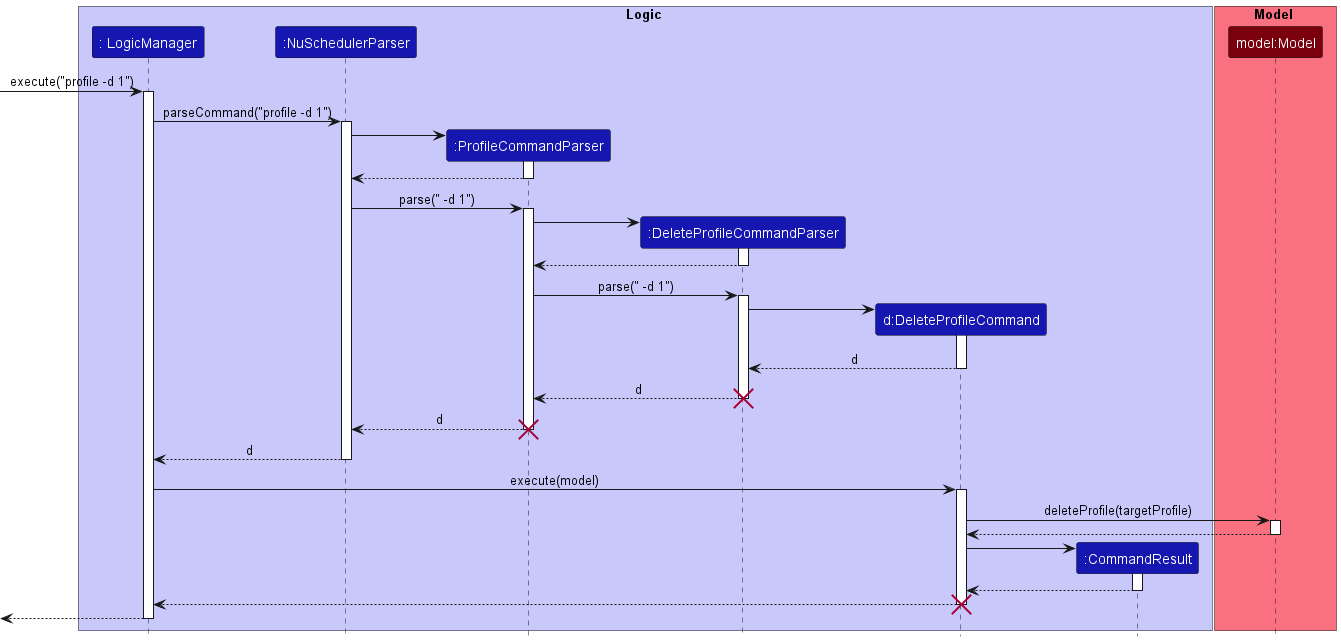
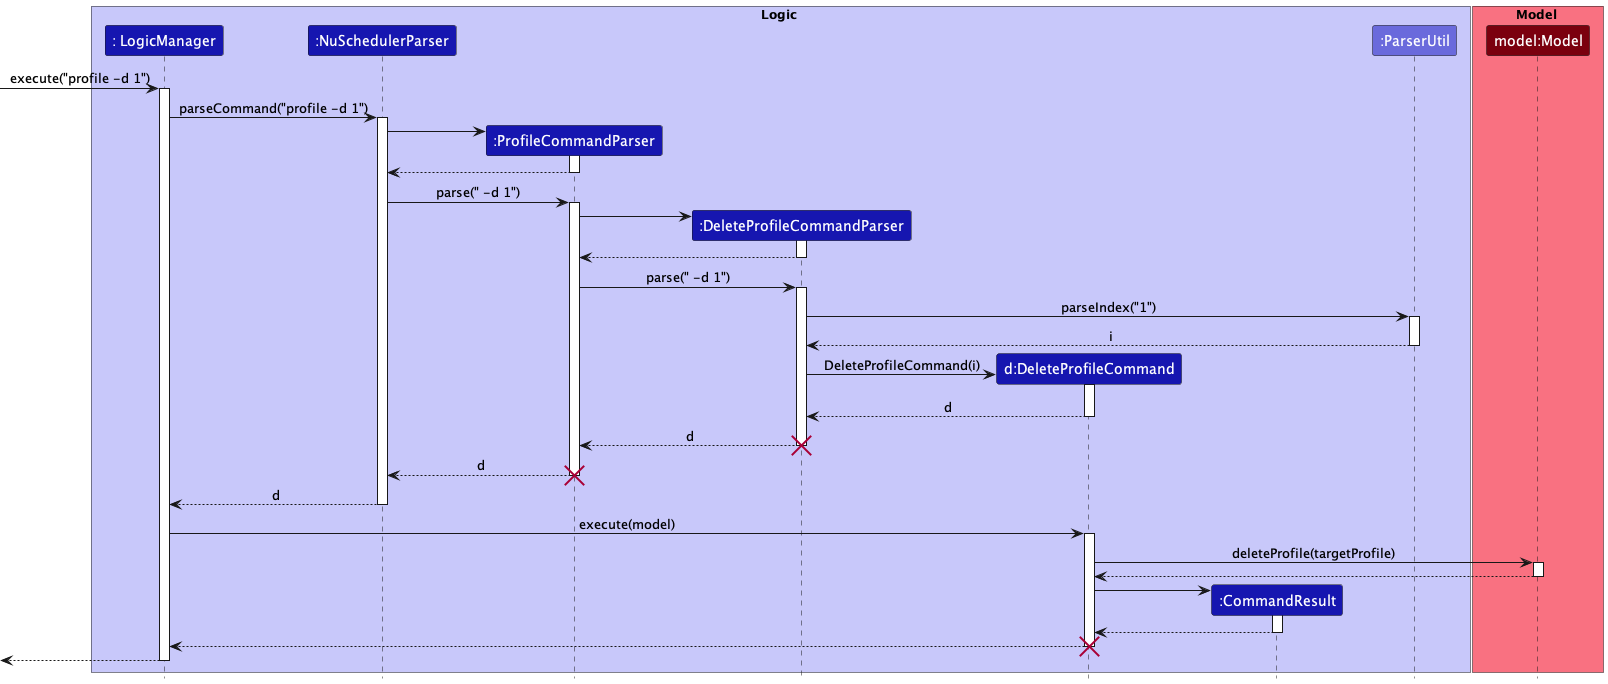
Edit delete implementation details

diff --git a/docs/DeveloperGuide.md b/docs/DeveloperGuide.md
@@ -222,9 +222,11 @@ The `DeleteProfileCommand` extends the `ProfileCommand` abstract class. `Profile
 1. When the user inputs a command to delete a profile, the input is passed to `LogicManager` to be executed.
 2. `LogicManager` will call `NuSchedulerParser#parseCommand()`, which will create a new `ProfileCommandParser`.
 3. The method `ProfileCommandParser#parse()` is then called, and returns a new `DeleteProfileCommandParser`.
-4. The method `DeleteProfileCommandParser#parse()` will then return a new `DeleteProfileCommand`, if the user has entered the correct inputs.
-5. The `LogicManager` will call `Command#execute()` method of the `DeleteProfileCommand`, which will then delete the `Profile` at the specified index, using the `Model#deleteProfile()` method.
-6. When the command completes successfully, a `CommandResult` object is returned to the `LogicManager`, which will then display a success message to the user.
+4. The method `DeleteProfileCommandParser#parse()` will then call the method `ParserUtil#parseIndex()` which will return a `Index` object.
+5. The `Index` object is then used to create a `DeleteProfileCommand`, if the user has entered the correct inputs.
+6. `DeleteProfileCommand` then gets returned to the `LogicManager`.
+7. The `LogicManager` will call `Command#execute()` method of the `DeleteProfileCommand`, which will then delete the `Profile` at the specified index, using the `Model#deleteProfile()` method.
+8. When the command completes successfully, a `CommandResult` object is returned to the `LogicManager`, which will then display a success message to the user.
 
 The following sequence diagram shows how the `DeleteProfileCommand` works.
 
